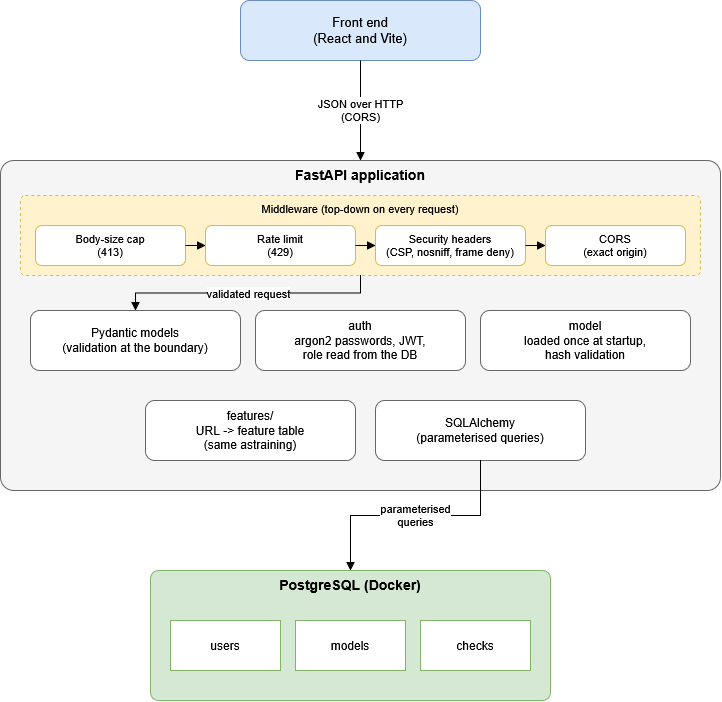
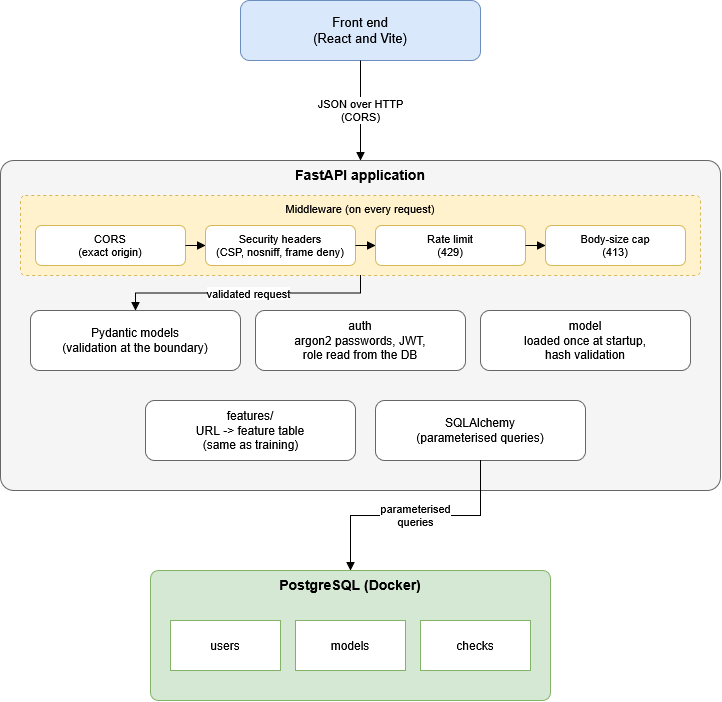
fix: actually, starlette processes bottom up.. oopsie daisy

diff --git a/app/security.py b/app/security.py
@@ -58,7 +58,8 @@ async def security_headers(request: Request, call_next: callable) -> JSONRespons
 
 
 def add_security(app: FastAPI) -> None:
-    # Top down!!
+    # Bottom up!! Starlette runs the last-added middleware first, so a request goes
+    # CORS -> security headers -> rate limit -> body size cap -> route
 
     # Body size cap
     app.add_middleware(RequestBodyLimitMiddleware, max_body_size=MAX_BODY_BYTES)
